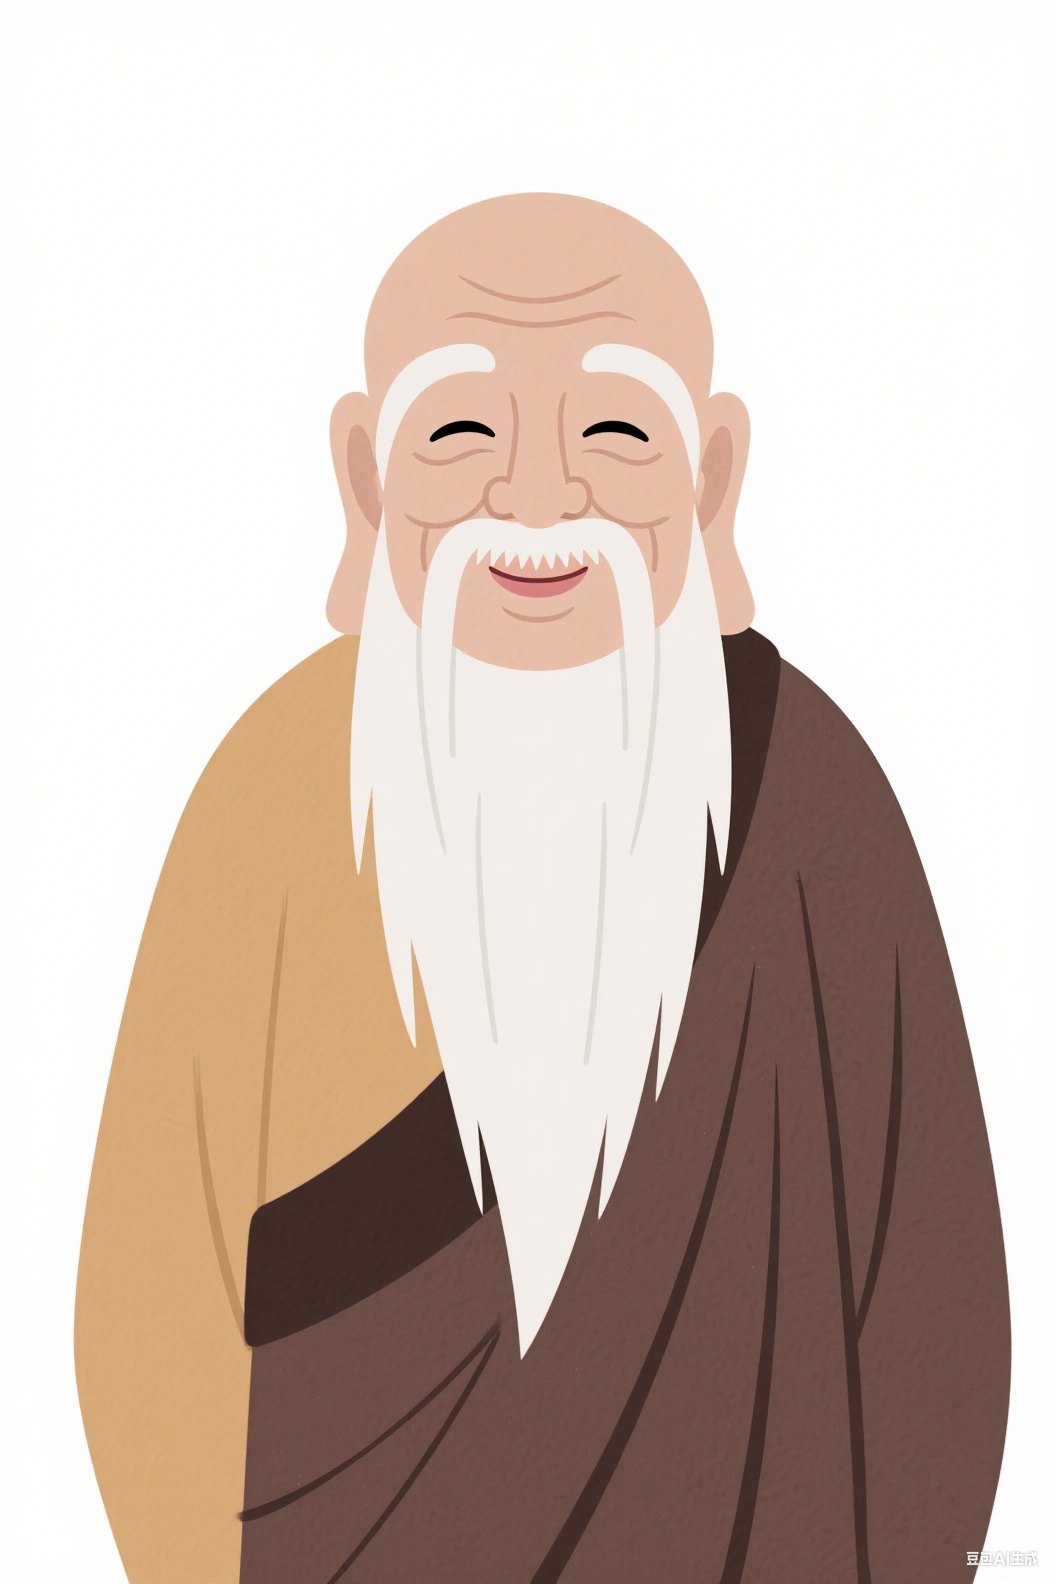
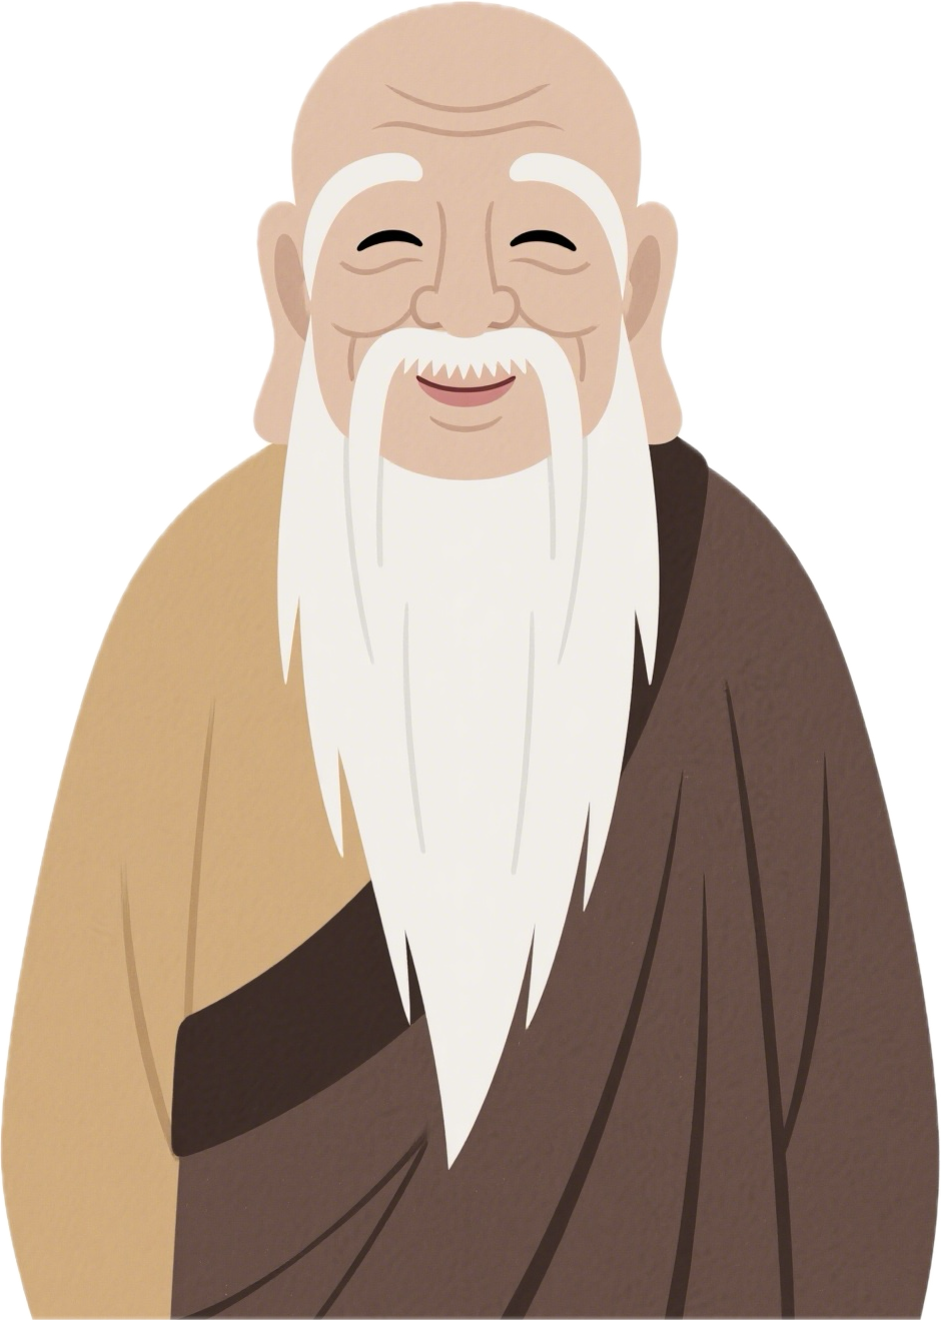
npc img

Changed region(s): [[0.0, 0.0, 1.0, 1.0], [0.5239, 0.6212, 0.6472, 0.8076], [0.3082, 0.8076, 0.3698, 0.8386]]

diff --git a/scripts/uiManager.js b/scripts/uiManager.js
@@ -23,6 +23,7 @@ class UIManager {
             // 主要容器
             gameContainer: document.getElementById('gameContainer'),
             background: document.getElementById('background'),
+            npcCharacter: document.getElementById('npcCharacter'),
             siteName: document.getElementById('siteName'),
             
             // 屏幕
@@ -125,6 +126,47 @@ class UIManager {
      */
     setBackground(imagePath) {
         this.elements.background.style.backgroundImage = `url('${imagePath}')`;
+    }
+
+    /**
+     * 设置NPC立绘
+     * @param {string} imagePath - NPC立绘图片路径
+     */
+    setNpcCharacter(imagePath) {
+        this.elements.npcCharacter.style.backgroundImage = `url('${imagePath}')`;
+        // 获取图片的原始宽高比来设置立绘的宽度
+        const img = new Image();
+        img.onload = () => {
+            const aspectRatio = img.width / img.height;
+            const height = this.elements.npcCharacter.offsetHeight || (window.innerHeight * 0.33);
+            const width = height * aspectRatio;
+            this.elements.npcCharacter.style.width = `${width}px`;
+        };
+        img.src = imagePath;
+    }
+
+    /**
+     * 显示NPC立绘
+     */
+    showNpcCharacter() {
+        this.elements.npcCharacter.style.display = 'block';
+        // 使用setTimeout确保display设置生效后再添加visible类
+        setTimeout(() => {
+            this.elements.npcCharacter.classList.remove('hidden');
+            this.elements.npcCharacter.classList.add('visible');
+        }, 10);
+    }
+
+    /**
+     * 隐藏NPC立绘
+     */
+    hideNpcCharacter() {
+        this.elements.npcCharacter.classList.remove('visible');
+        this.elements.npcCharacter.classList.add('hidden');
+        // 动画完成后隐藏元素
+        setTimeout(() => {
+            this.elements.npcCharacter.style.display = 'none';
+        }, 500); // 与CSS transition时间一致
     }
 
     /**
@@ -329,6 +371,9 @@ class UIManager {
      * @param {Function} onOptionSelect - 选项选择回调
      */
     showOptions(options, onOptionSelect) {
+        // 显示选项时隐藏NPC立绘
+        this.hideNpcCharacter();
+        
         this.elements.optionsContainer.innerHTML = '';
         
         options.forEach((option, index) => {
@@ -352,6 +397,8 @@ class UIManager {
      */
     hideOptions() {
         this.elements.optionsOverlay.style.display = 'none';
+        // 隐藏选项后显示NPC立绘
+        this.showNpcCharacter();
     }
 
     /**
@@ -514,6 +561,7 @@ class UIManager {
         this.hideHistoryModal();
         this.hideConfirmModal();
         this.hideAchievementModal();
+        this.hideNpcCharacter(); // 重置时隐藏NPC立绘
         this.elements.continueButton.className = '';
         this.elements.completeButton.className = '';
         this.elements.npcText.innerHTML = '';

diff --git a/styles/main.css b/styles/main.css
@@ -45,6 +45,32 @@ body {
     z-index: 1;
 }
 
+/* NPC立绘 */
+#npcCharacter {
+    position: absolute;
+    right: 5%;
+    bottom: 25%;
+    height: 33vh;
+    z-index: 3;
+    background-size: contain;
+    background-position: center bottom;
+    background-repeat: no-repeat;
+    opacity: 0;
+    transform: translateX(100px);
+    transition: opacity 0.5s ease, transform 0.5s ease;
+    pointer-events: none;
+}
+
+#npcCharacter.visible {
+    opacity: 1;
+    transform: translateX(0);
+}
+
+#npcCharacter.hidden {
+    opacity: 0;
+    transform: translateX(100px);
+}
+
 /* 景点名称 */
 #siteName {
     position: absolute;
@@ -527,6 +553,13 @@ body {
     #optionsContainer {
         max-width: 90%;
         padding: 15px;
+    }
+    
+    /* 手机端NPC立绘调整 */
+    #npcCharacter {
+        right: 3%;
+        bottom: 20%;
+        height: 30vh;
     }
 }
 

diff --git a/scripts/gameEngine.js b/scripts/gameEngine.js
@@ -50,6 +50,7 @@ class GameEngine {
         // 设置背景和标题
         if (metadata) {
             this.uiManager.setBackground(this.gameData.getBackgroundPath());
+            this.uiManager.setNpcCharacter(this.gameData.getNpcCharacterPath());
             this.uiManager.setSiteName(metadata.site_name || '景点');
         }
         
@@ -107,6 +108,9 @@ class GameEngine {
             console.error('场景不存在:', currentSceneId);
             return;
         }
+
+        // 显示NPC立绘（当NPC说话时）
+        this.uiManager.showNpcCharacter();
 
         // 添加NPC对话到历史记录
         const metadata = this.gameData.getMetadata();

diff --git a/scripts/gameData.js b/scripts/gameData.js
@@ -90,10 +90,10 @@ class GameData {
     }
 
     /**
-     * 获取NPC图片路径
-     * @returns {string} NPC图片路径
+     * 获取NPC立绘路径
+     * @returns {string} NPC立绘路径
      */
-    getNpcImagePath() {
+    getNpcCharacterPath() {
         return `./imgs/${this.siteName}/npc.png`;
     }
 

diff --git a/index.html b/index.html
@@ -15,6 +15,9 @@
         <!-- 背景图片 -->
         <div id="background"></div>
         
+        <!-- NPC立绘 -->
+        <div id="npcCharacter" style="display: none;"></div>
+        
         <!-- 景点名称 -->
         <div id="siteName"></div>
         
